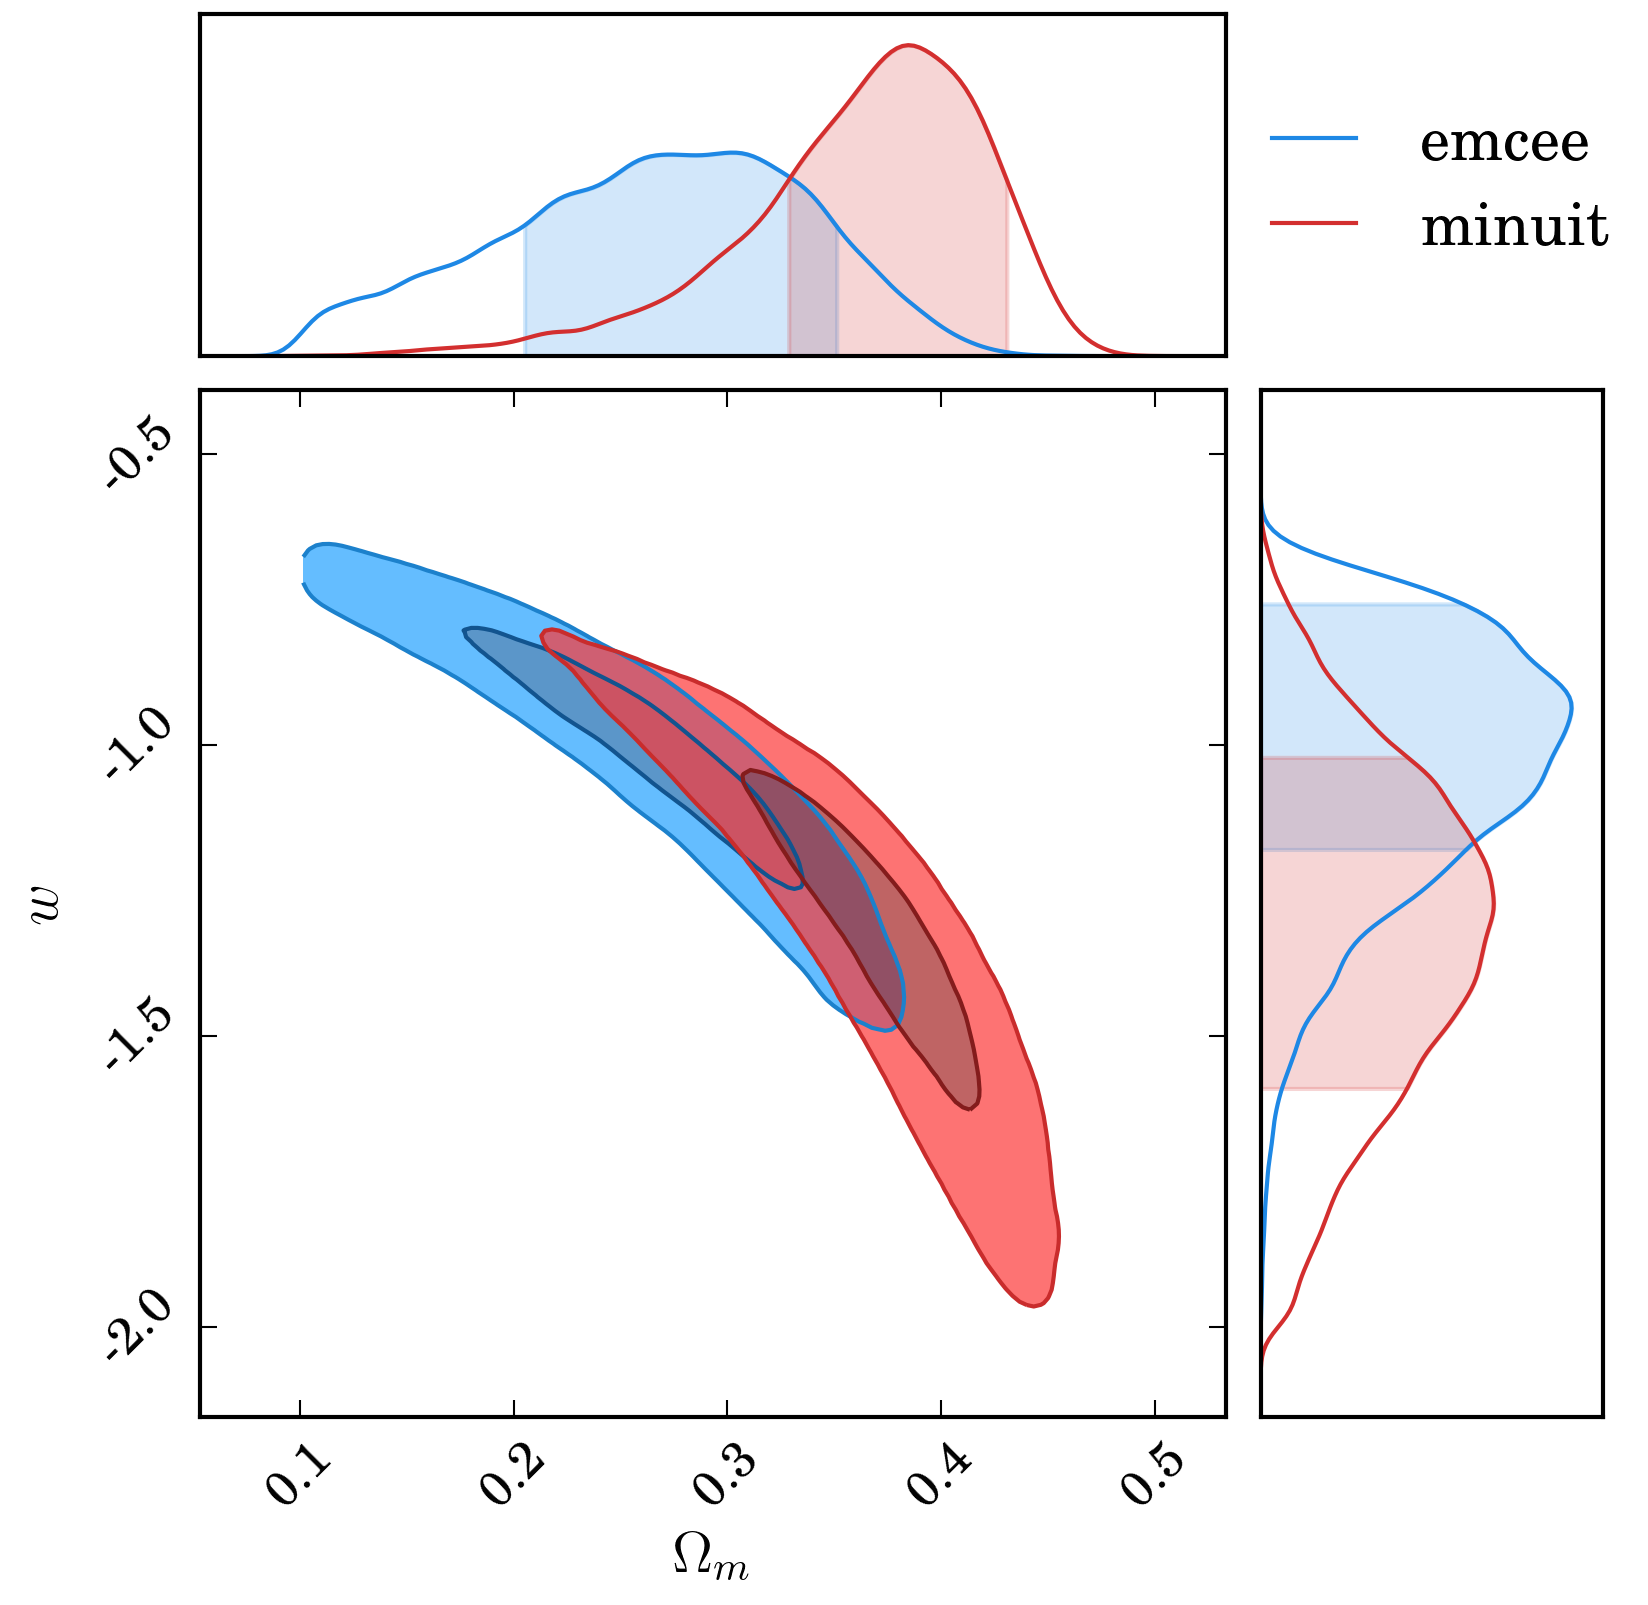
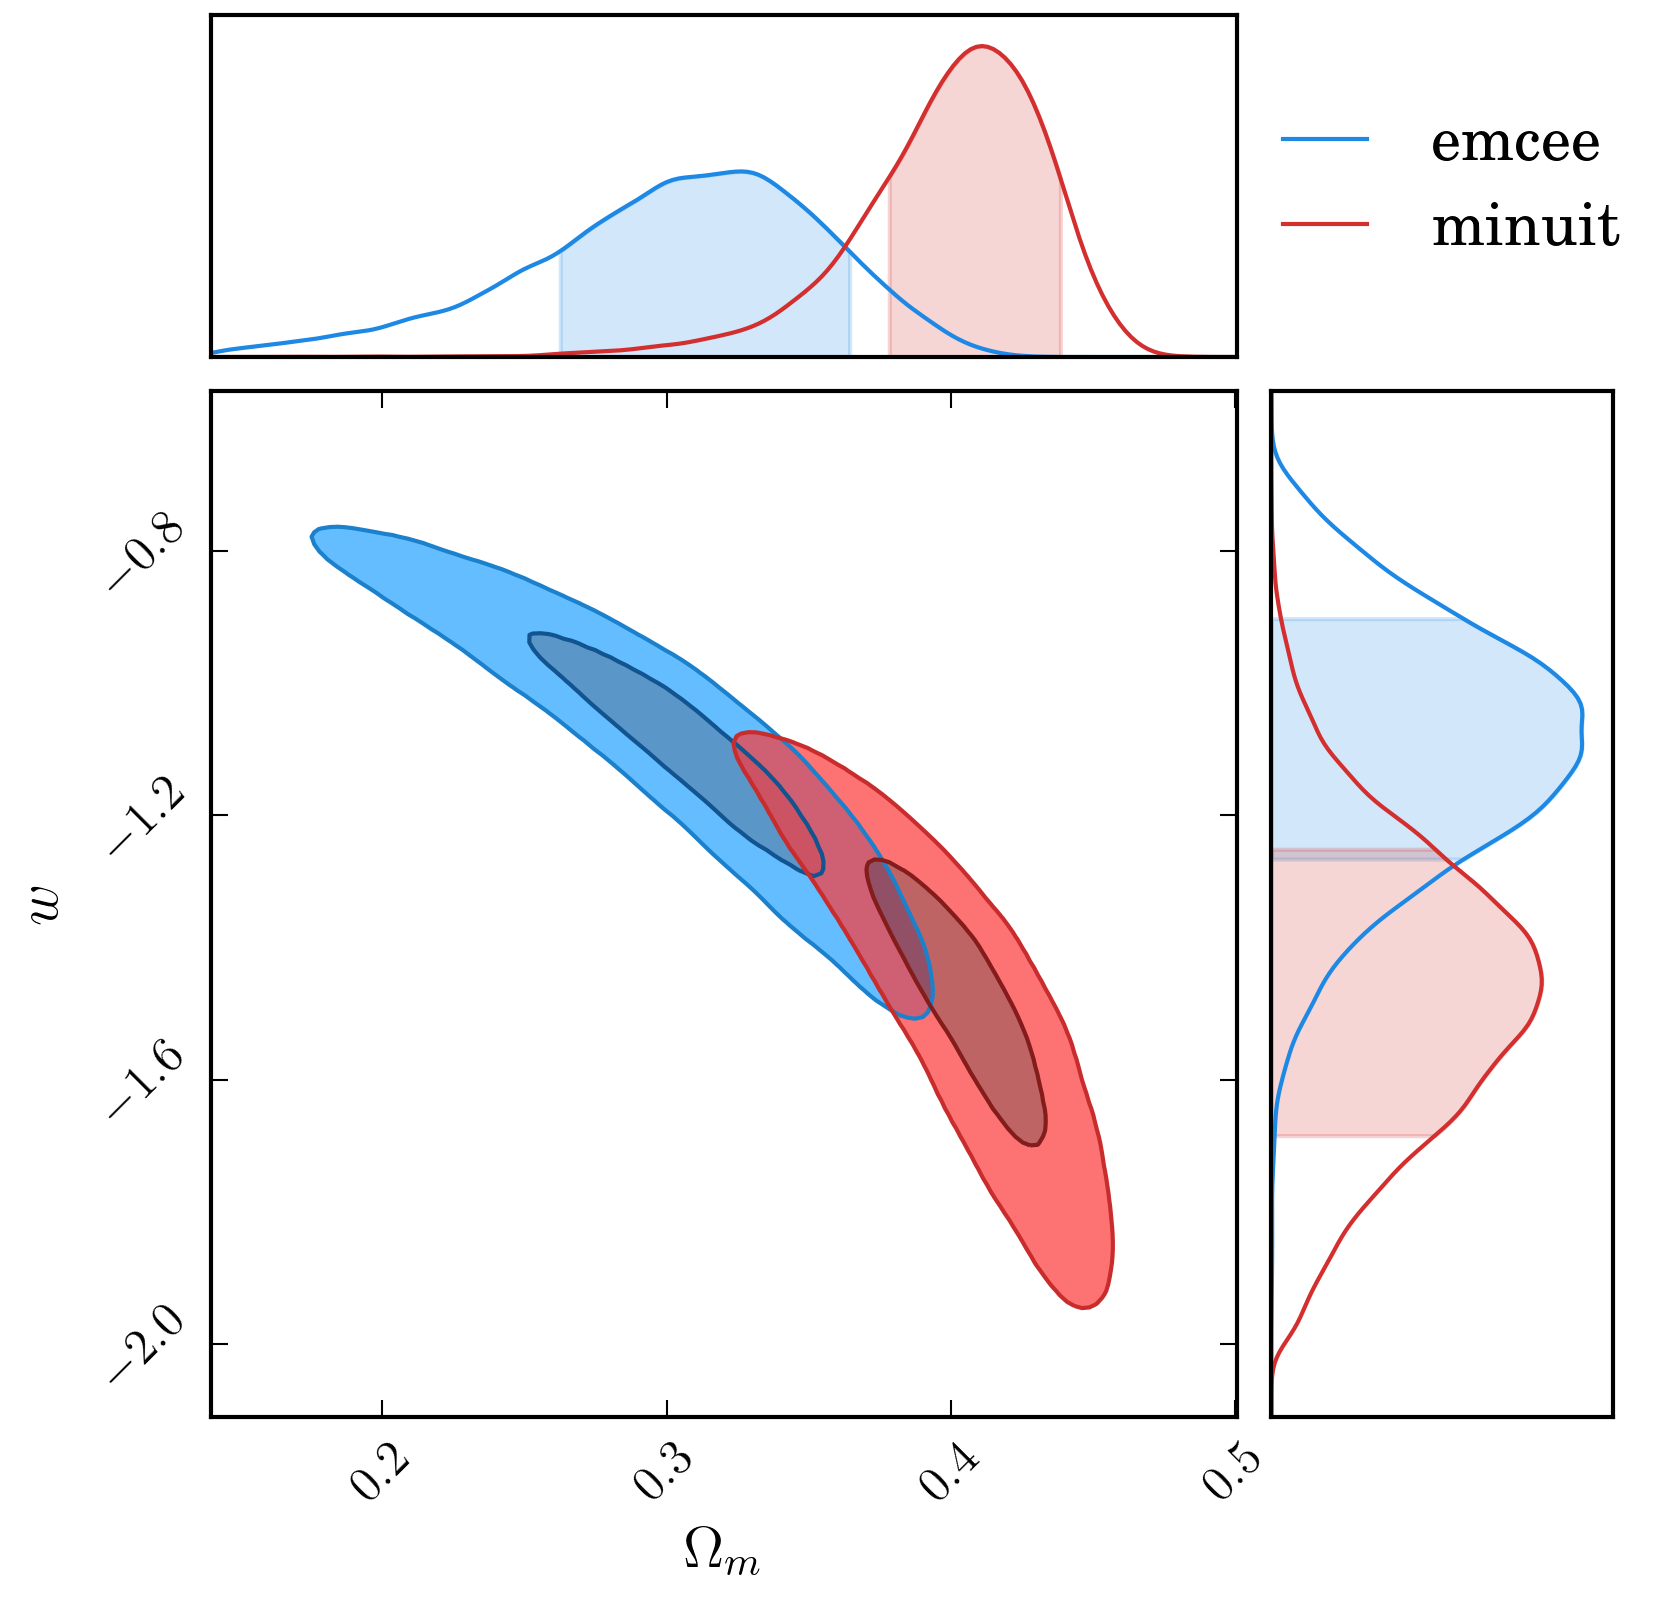
Adding deep

diff --git a/dessn/investigations/gaussianity/simple_cosmology_test.py b/dessn/investigations/gaussianity/simple_cosmology_test.py
@@ -26,7 +26,7 @@ def get_zp_and_name(shallow):
         return [34.24, 34.85, 34.94, 35.42], "deep"
 
 
-def get_supernova_data(n=600, ston_thresh=5, shallow=True):
+def get_supernova_data(n=1300, ston_thresh=5, shallow=True):
     zp, name = get_zp_and_name(shallow)
     temp_dir = os.path.dirname(__file__) + "/output/supernova_data_%s" % name
     if not os.path.exists(temp_dir):
@@ -40,6 +40,7 @@ def get_supernova_data(n=600, ston_thresh=5, shallow=True):
     # res = res[z < 0.7, :]
     # [seed, z, t0, x0, x1, c, ston] + mus + stds)
     #            zs, mu_mcmc, mu_minuit, std_mcmc, std_minuit
+    print("Supernova data", res.shape)
     return res[:, 1], res[:, 7], res[:, 8], res[:, 9], res[:, 10]
 
 
@@ -80,42 +81,37 @@ def get_bias_matrix(filename, shallow=True):
     return RegularGridInterpolator((omega_ms, ws, mabss), bs, bounds_error=False, fill_value=0.0)
 
 
-def plot_cosmology(zs, mu_mcmc, mu_minuit, std_mcmc, std_minuit):
+def plot_cosmology(zs, mu_mcmc, mu_minuit, std_mcmc, std_minuit, n):
     import matplotlib.pyplot as plt
     fig, ax = plt.subplots(1, 1, figsize=(5, 4))
-    # ax.axhline(0, color='k', ls="--")
     zsort = sorted(zs)
     distmod = WMAP9.distmod(zsort).value - 19.3
-    distmod2 = FlatwCDM(70, 0.1, -0.8).distmod(zsort).value - 19.3
-    distmod3 = FlatwCDM(70, 0.25, -2).distmod(zsort).value - 19.5
-    ax.errorbar(zs, mu_minuit, yerr=np.sqrt(std_minuit*std_minuit + 0.1*0.1), ms=4, fmt='o', label=r"minuit", color="r", alpha=0.1)
-    # ax.errorbar(zs, mu_mcmc, yerr=np.sqrt(std_mcmc*std_mcmc + 0.05*0.05), fmt='o', ms=4, label=r"mcmc", color="b", alpha=0.1)
+    ax.errorbar(zs, mu_minuit, yerr=np.sqrt(std_minuit*std_minuit + 0.1*0.1), ms=4, fmt='o', label=r"minuit", color="r", alpha=0.2)
+    ax.errorbar(zs, mu_mcmc, yerr=np.sqrt(std_mcmc*std_mcmc + 0.05*0.05), fmt='o', ms=4, label=r"mcmc", color="b", alpha=0.2)
     ax.plot(zsort, distmod, 'k')
-    ax.plot(zsort, distmod2, 'g--')
-    ax.plot(zsort, distmod3, 'r:')
     ax.set_xlabel("$z$")
-    ax.set_ylabel(r"$\mu(\mathcal{C}) - \mu_{{\rm obs}}$")
+    ax.set_ylabel(r"$\mu(\mathcal{C})$")
     ax.legend(loc=2)
-    fig.savefig("output/obs_cosmology.png", bbox_inches="tight", dpi=300, transparent=True)
+    fig.savefig("output/obs_cosmology_%s.png" % n, bbox_inches="tight", dpi=300, transparent=True)
 
 if __name__ == "__main__":
-    bias_file = os.path.dirname(__file__) + "/output/cosmology/bias_shallow.npy"
-    temp_dir2 = os.path.dirname(__file__) + "/output/cosmology"
-    if not os.path.exists(temp_dir2):
-        os.makedirs(temp_dir2)
-    logging.basicConfig(level=logging.DEBUG)
+    for n in ["deep", "shallow"]:
+        is_shallow = n == "shallow"
+        bias_file = os.path.dirname(__file__) + "/output/cosmology/bias_%s.npy" % n
+        temp_dir2 = os.path.dirname(__file__) + "/output/cosmology_%s" % n
+        if not os.path.exists(temp_dir2):
+            os.makedirs(temp_dir2)
+        logging.basicConfig(level=logging.DEBUG)
 
-    interp = get_bias_matrix(bias_file)
-    zs, mu_mcmc, mu_minuit, std_mcmc, std_minuit = get_supernova_data()
+        zs, mu_mcmc, mu_minuit, std_mcmc, std_minuit = get_supernova_data(shallow=is_shallow)
 
-    plot_cosmology(zs, mu_mcmc, mu_minuit, std_mcmc, std_minuit)
-    fitter_mcmc = SimpleCosmologyFitter("mcmc", zs, mu_mcmc, std_mcmc, interp)
-    fitter_minuit = SimpleCosmologyFitter("minuit", zs, mu_minuit, std_minuit, interp)
+        plot_cosmology(zs, mu_mcmc, mu_minuit, std_mcmc, std_minuit, n)
+        fitter_mcmc = SimpleCosmologyFitter("mcmc", zs, mu_mcmc, std_mcmc)
+        fitter_minuit = SimpleCosmologyFitter("minuit", zs, mu_minuit, std_minuit)
 
-    sampler = EnsembleSampler(temp_dir=temp_dir2, save_interval=60, num_steps=5000, num_burn=1000)
-    c = fitter_mcmc.fit(sampler=sampler)
-    c = fitter_minuit.fit(sampler=sampler, chain_consumer=c)
-    c.names = ["emcee", "minuit"]
-    #c.plot_walks(filename="output/walks.png")
-    c.plot(filename="output/comparison_shallow.png", parameters=2, figsize=(5.5, 5.5))
-    print(c.get_latex_table())
+        sampler = EnsembleSampler(temp_dir=temp_dir2, save_interval=60, num_steps=5000, num_burn=1000)
+        c = fitter_mcmc.fit(sampler=sampler)
+        c = fitter_minuit.fit(sampler=sampler, chain_consumer=c)
+        c.names = ["emcee", "minuit"]
+        c.plot(filename="output/comparison_%s.png" % n, parameters=2, figsize=(5.5, 5.5))
+        print(c.get_latex_table())

diff --git a/dessn/investigations/gaussianity/simple_cosmology_fitter.py b/dessn/investigations/gaussianity/simple_cosmology_fitter.py
@@ -100,7 +100,7 @@ class Likelihood(Edge):
 
 
 class SimpleCosmologyFitter(Model):
-    def __init__(self, name, zs, mus, mues, interpolator):
+    def __init__(self, name, zs, mus, mues): #, interpolator):
         super().__init__(name)
         self.add(Redshifts(zs))
         self.add(Mus(mus))
@@ -109,5 +109,5 @@ class SimpleCosmologyFitter(Model):
         self.add(W())
         self.add(M())
         self.add(Likelihood())
-        self.add(BiasCorrection(interpolator))
+        # self.add(BiasCorrection(interpolator))
         self.finalise()
